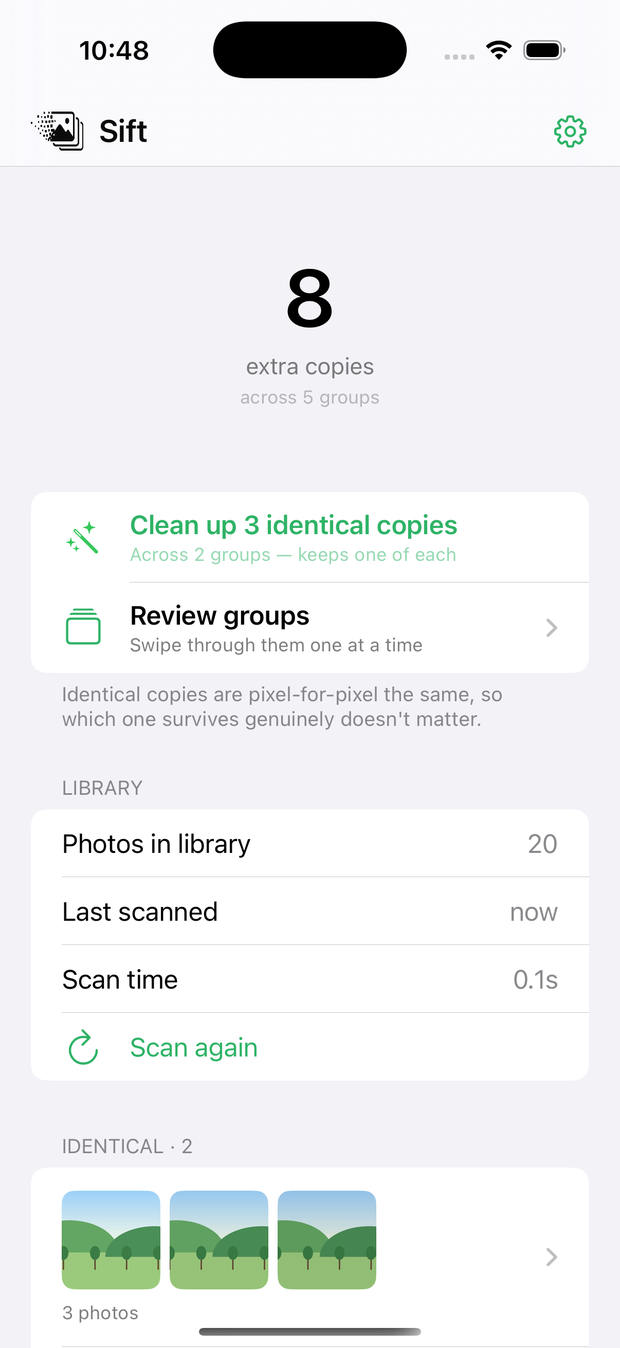
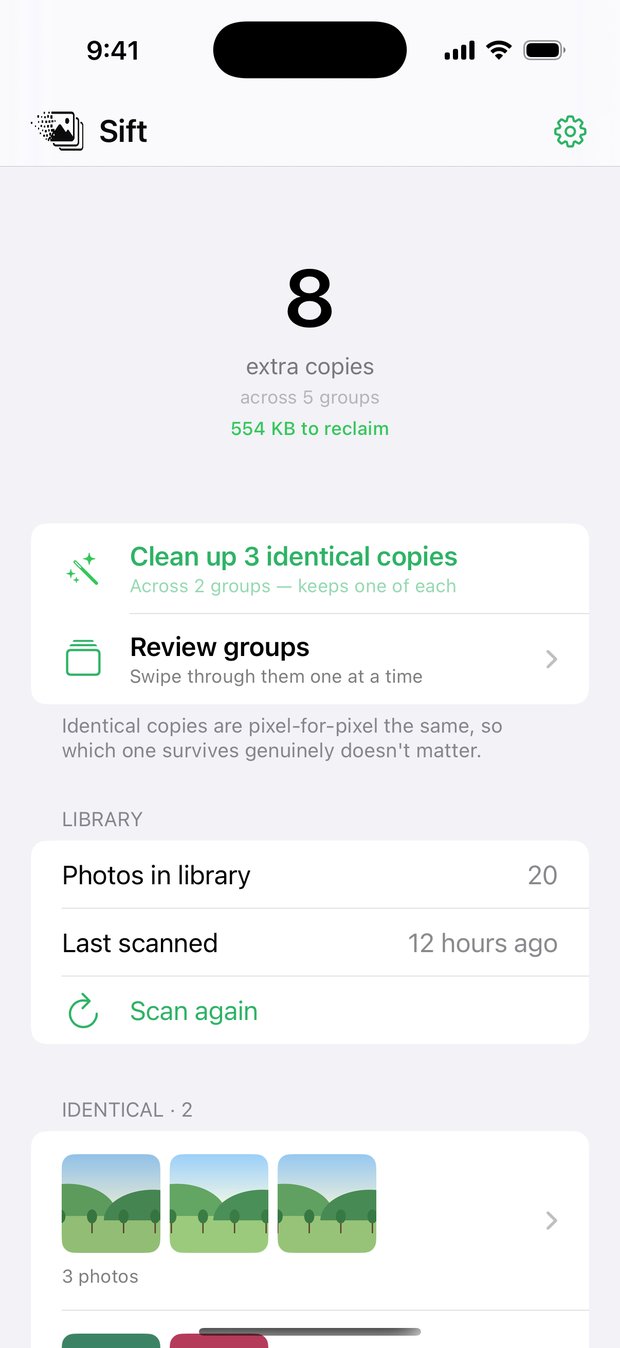
Stop cropping the screenshots, and clean the status bars
`object-fit: cover` on a phone frame whose inner ratio didn't quite match
a 1206x2622 screenshot took about five points off each side — which is
why Cartridge's buttons were touching the edge. The screen now carries
the screenshot's own ratio and the image is contained rather than
covered. A screenshot isn't a photograph; cropping one silently removes
interface and stretching one is worse.

Recaptured with the status bar pinned to 9:41 and full bars, which also
removes the app-switcher breadcrumb — Barbell was showing a back-to-Sift
chevron from however it had been launched.

diff --git a/Sources/PortfolioApp/Styles/theme.css b/Sources/PortfolioApp/Styles/theme.css
@@ -438,7 +438,6 @@ a {
 .phone {
     position: relative;
     width: min(268px, 70vw);
-    aspect-ratio: 9 / 19.5;
     border-radius: 42px;
     padding: 10px;
     background: linear-gradient(160deg, #3a3a3d, #131315 45%, #2a2a2d);
@@ -449,7 +448,10 @@ a {
 
 .phone-screen {
     position: relative;
-    height: 100%;
+    /* The screenshot's own ratio, not the phone's nominal one. They differ by
+       about a percent, and with `cover` that percent came off the sides of the
+       picture — which is why the on-screen buttons were touching the edge. */
+    aspect-ratio: 1206 / 2622;
     border-radius: 33px;
     overflow: hidden;
     background: #000;
@@ -493,13 +495,18 @@ a {
 }
 
 /* The screenshot carries the real title bar, so nothing is drawn over it. */
-.mac-screen { background: #000; }
+.mac-screen {
+    aspect-ratio: 1800 / 1280;
+    background: #000;
+}
 
 .device-shot {
     display: block;
     width: 100%;
     height: 100%;
-    object-fit: cover;
+    /* Contain, never cover. A screenshot is not a photograph — cropping one
+       silently removes interface, and stretching one is worse. */
+    object-fit: contain;
 }
 
 /* ---------- Copy ---------- */
